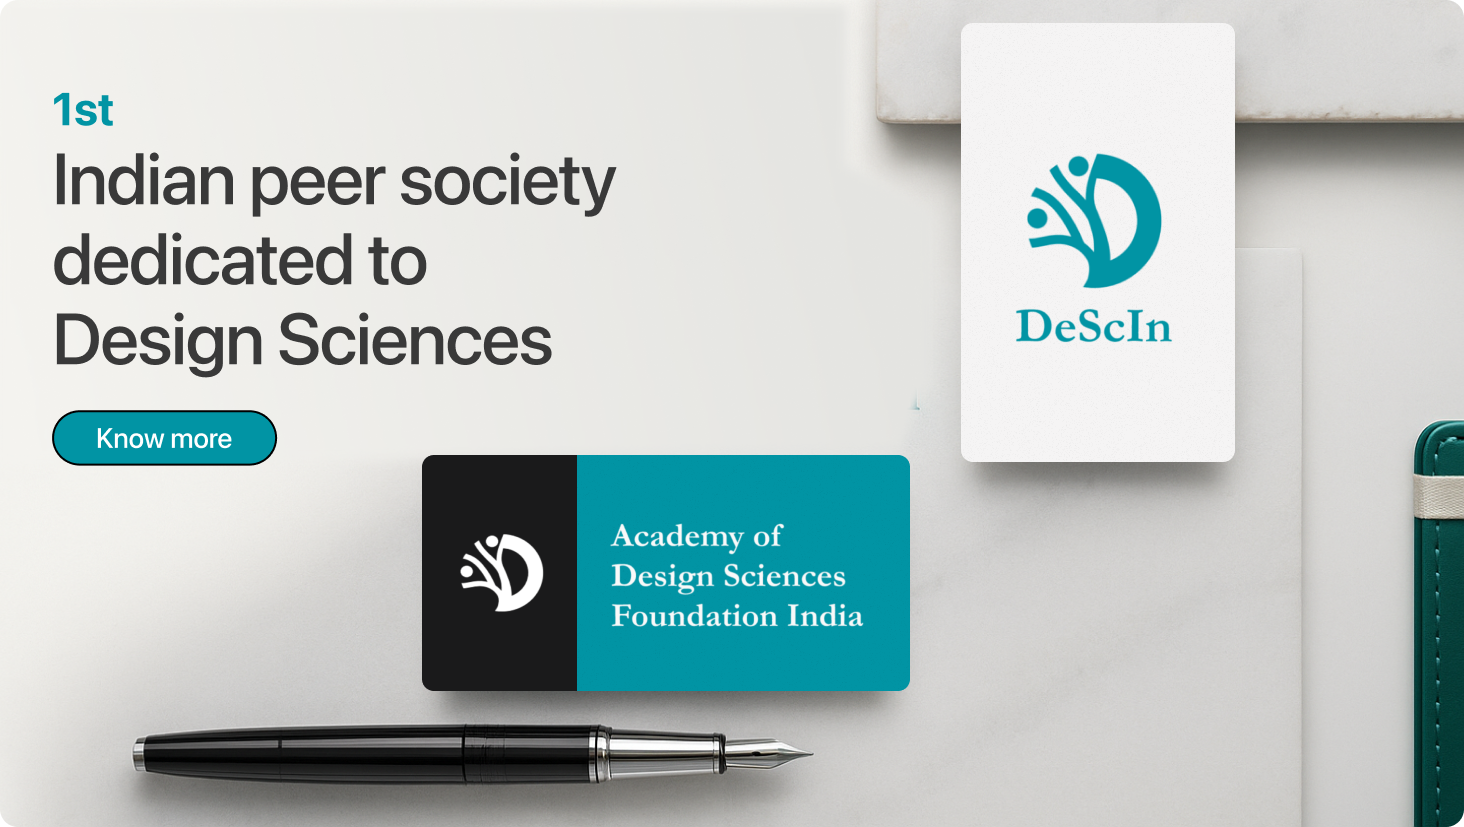
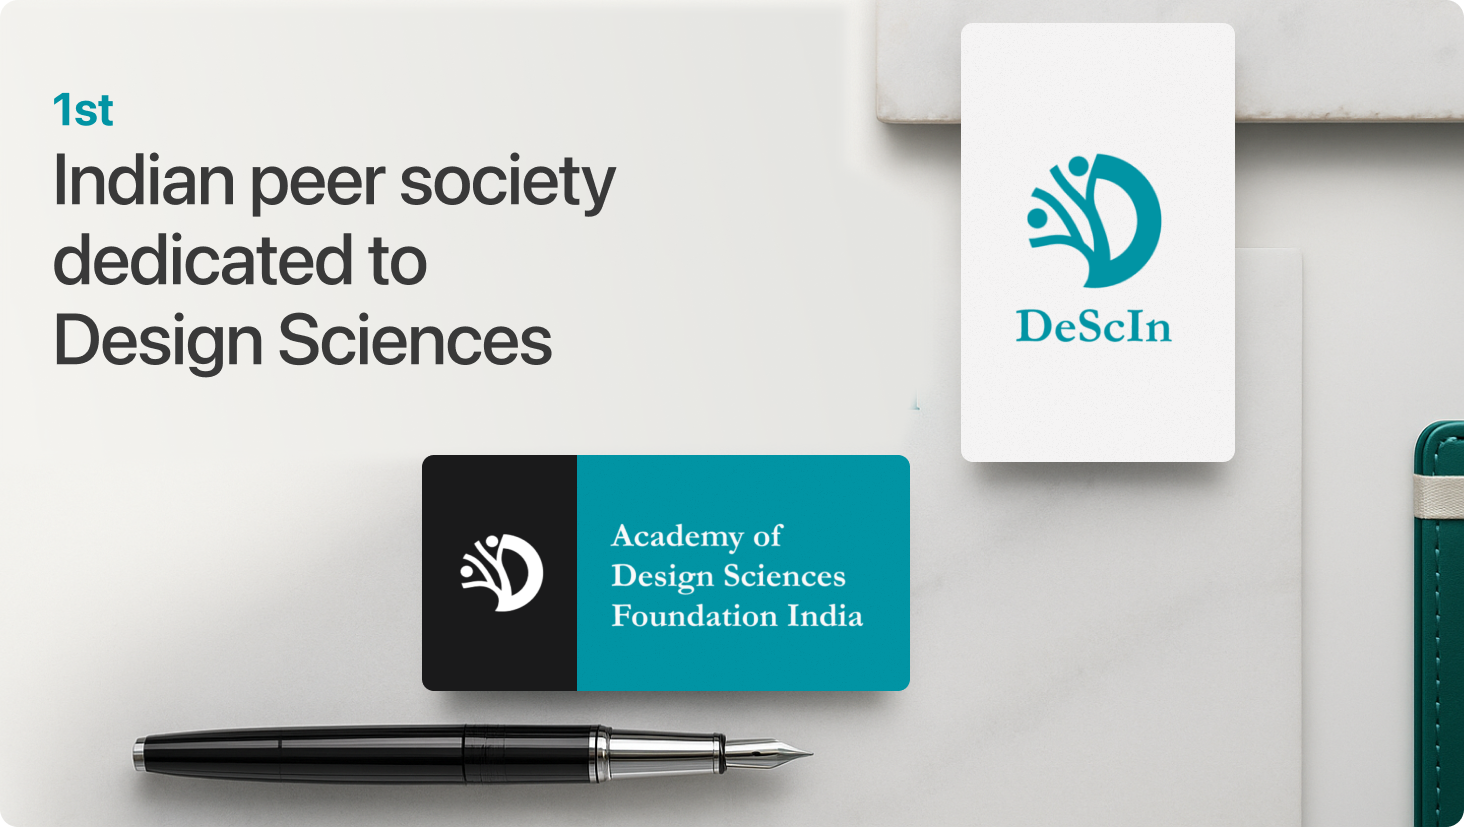
Fix image view

Changed region(s): [[0.0307, 0.4837, 0.2152, 0.5744]]

diff --git a/src/app/page.module.css b/src/app/page.module.css
@@ -76,6 +76,7 @@
   line-height: 1.2;
   border-radius: 999px;
   transition: background-color 0.2s ease;
+  white-space: nowrap;
 }
 
 .loginButton {
@@ -100,7 +101,6 @@
 .heroCard {
   position: relative;
   aspect-ratio: 1365 / 768;
-  min-height: auto;
   border-radius: 18px;
   overflow: hidden;
   background: #e9e7e8;
@@ -124,6 +124,15 @@
   width: 100%;
   height: 100%;
   object-fit: cover;
+  object-position: center center;
+}
+
+.slideImageKnowMore {
+  object-position: center center;
+}
+
+.slideImageRegister {
+  object-position: center center;
 }
 
 .slideCta {
@@ -135,6 +144,7 @@
   font-family: var(--font-display), sans-serif;
   font-weight: 700;
   z-index: 4;
+  white-space: nowrap;
 }
 
 .slideCtaKnowMore {
@@ -149,8 +159,8 @@
 }
 
 .slideCtaRegister {
-  left: 3.4%;
-  top: 49.4%;
+  left: 3.2%;
+  top: 49.6%;
   min-width: 245px;
   min-height: 56px;
   border: 2px solid #d2d2d2;
@@ -527,6 +537,7 @@
   display: flex;
   overflow-x: auto;
   scroll-behavior: smooth;
+  scroll-snap-type: x proximity;
   scrollbar-width: none;
   gap: 1rem;
   padding: 1rem 0 1.3rem;
@@ -571,6 +582,7 @@
   overflow: hidden;
   background: var(--color-primary);
   cursor: pointer;
+  scroll-snap-align: start;
 }
 
 .memberModalOverlay {
@@ -647,6 +659,7 @@
   font-family: var(--font-body), sans-serif;
   font-size: clamp(1.12rem, 1.7vw, 2.2rem);
   line-height: 1.55;
+  word-break: break-word;
 }
 
 .memberPhoto {
@@ -1063,6 +1076,24 @@
 }
 
 @media (max-width: 1220px) {
+  .headerInner {
+    align-items: flex-start;
+    flex-direction: column;
+    gap: 0.7rem;
+  }
+
+  .siteNav {
+    width: 100%;
+    flex-wrap: nowrap;
+    justify-content: flex-start;
+    overflow-x: auto;
+    padding-bottom: 0.2rem;
+  }
+
+  .band {
+    padding: clamp(2.2rem, 5.4vw, 4.5rem) 0;
+  }
+
   .chapterGrid,
   .benefitGrid,
   .principleGrid,
@@ -1079,9 +1110,45 @@
   }
 }
 
+@media (max-width: 1220px) and (min-width: 981px) {
+  .slideArrowLeft,
+  .slideArrowRight {
+    width: 46px;
+    height: 46px;
+    font-size: 1.35rem;
+  }
+
+  .heroDot {
+    width: 13px;
+    height: 13px;
+  }
+
+  .heroDots {
+    gap: 0.55rem;
+    bottom: 0.9rem;
+  }
+}
+
 @media (max-width: 980px) {
   .container {
     width: min(1408px, calc(100% - 2.2rem));
+  }
+
+  .band {
+    padding: clamp(2rem, 5vw, 3.6rem) 0;
+  }
+
+  .sectionTitle {
+    line-height: 1;
+  }
+
+  .siteNav {
+    gap: 0.35rem;
+  }
+
+  .navLink {
+    font-size: 1rem;
+    padding: 0.45rem 0.78rem;
   }
 
   .heroBrandPanel {
@@ -1093,20 +1160,39 @@
     grid-template-columns: 120px minmax(0, 1fr);
   }
 
+  .heroCard {
+    aspect-ratio: 1365 / 768;
+  }
+
+  .heroSlide {
+    min-height: 100%;
+  }
+
+  .slideImageKnowMore {
+    object-position: center center;
+  }
+
+  .slideImageRegister {
+    object-position: center center;
+  }
+
+  .slideCta {
+    min-width: auto;
+    min-height: auto;
+    border-width: 1.6px;
+    padding: clamp(0.4rem, 0.95vw, 0.55rem) clamp(0.9rem, 2vw, 1.2rem);
+  }
+
   .slideCtaKnowMore {
-    left: 3.5%;
-    top: 55.2%;
-    min-width: 212px;
-    min-height: 52px;
-    font-size: 1.12rem;
+    left: 3.2%;
+    top: 74.2%;
+    font-size: clamp(0.88rem, 1.55vw, 0.98rem);
   }
 
   .slideCtaRegister {
-    left: 3.5%;
-    top: 72.1%;
-    min-width: 186px;
-    min-height: 46px;
-    font-size: 1rem;
+    left: 3.2%;
+    top: 74.2%;
+    font-size: clamp(0.84rem, 1.4vw, 0.94rem);
   }
 
   .heroBrandMark img {
@@ -1152,6 +1238,31 @@
   .memberCard {
     flex-basis: calc((100% - 1rem) / 1.8);
   }
+
+  .councilSliderWrap {
+    grid-template-columns: 1fr;
+    gap: 0.7rem;
+  }
+
+  .sliderArrow {
+    width: 40px;
+    height: 40px;
+  }
+
+  .councilSliderWrap > .sliderArrow:first-child {
+    order: 2;
+    justify-self: start;
+  }
+
+  .councilSliderWrap > .memberStrip {
+    order: 1;
+  }
+
+  .councilSliderWrap > .sliderArrow:last-child {
+    order: 3;
+    justify-self: end;
+    margin-top: -2.6rem;
+  }
 }
 
 @media (max-width: 680px) {
@@ -1159,25 +1270,43 @@
     width: min(1408px, calc(100% - 1.4rem));
   }
 
-  .siteHeader {
-    position: static;
+  .band {
+    padding: 1.7rem 0;
   }
 
   .headerInner {
-    align-items: flex-start;
-    flex-direction: column;
+    gap: 0.6rem;
   }
 
   .siteNav {
-    width: 100%;
-    overflow-x: auto;
-    flex-wrap: nowrap;
+    gap: 0.3rem;
     padding-bottom: 0.2rem;
   }
 
+  .navLink {
+    font-size: 0.92rem;
+    padding: 0.42rem 0.7rem;
+  }
+
+  .loginButton {
+    font-size: 0.94rem;
+    padding: 0.52rem 1rem;
+  }
+
   .heroCard {
-    min-height: 620px;
-    aspect-ratio: auto;
+    aspect-ratio: 1365 / 768;
+  }
+
+  .heroSlide {
+    min-height: 100%;
+  }
+
+  .slideImageKnowMore {
+    object-position: center center;
+  }
+
+  .slideImageRegister {
+    object-position: center center;
   }
 
   .heroHeading {
@@ -1209,6 +1338,22 @@
     transform: none;
   }
 
+  .slideCtaKnowMore {
+    left: 3.2%;
+    top: 72.6%;
+    font-size: clamp(0.78rem, 2.2vw, 0.88rem);
+    padding: clamp(0.34rem, 1vw, 0.42rem) clamp(0.78rem, 2.2vw, 0.92rem);
+    border-width: 1.4px;
+  }
+
+  .slideCtaRegister {
+    left: 3.2%;
+    top: 72.6%;
+    font-size: clamp(0.76rem, 2.05vw, 0.86rem);
+    padding: clamp(0.34rem, 1vw, 0.42rem) clamp(0.78rem, 2.2vw, 0.92rem);
+    border-width: 1.4px;
+  }
+
   .slideArrowLeft {
     left: 0.6rem;
   }
@@ -1225,7 +1370,17 @@
   }
 
   .memberCard {
-    flex-basis: calc(100% - 4rem);
+    flex-basis: calc(100% - 2rem);
+  }
+
+  .sliderArrow {
+    width: 36px;
+    height: 36px;
+    font-size: 1rem;
+  }
+
+  .councilSliderWrap > .sliderArrow:last-child {
+    margin-top: -2.2rem;
   }
 
   .membershipRow {
@@ -1235,5 +1390,22 @@
 
   .membershipIcon {
     min-height: 86px;
+  }
+}
+
+@media (max-width: 480px) {
+  .slideCta {
+    border-width: 1.2px;
+    padding: clamp(0.28rem, 0.9vw, 0.35rem) clamp(0.64rem, 1.7vw, 0.78rem);
+  }
+
+  .slideCtaKnowMore {
+    top: 71.8%;
+    font-size: clamp(0.68rem, 3.1vw, 0.76rem);
+  }
+
+  .slideCtaRegister {
+    top: 71.8%;
+    font-size: clamp(0.66rem, 2.9vw, 0.74rem);
   }
 }

diff --git a/src/app/page.tsx b/src/app/page.tsx
@@ -93,6 +93,7 @@ const heroSlides = [
   {
     image: "/slides/hero-slide-1.png",
     alt: "DeScIn hero intro",
+    imageClassName: "slideImageKnowMore",
     ctaLabel: "Know more",
     ctaHref: "#about",
     ctaClassName: "slideCtaKnowMore",
@@ -100,6 +101,7 @@ const heroSlides = [
   {
     image: "/slides/hero-slide-2.png",
     alt: "Indian Winter School on Design Research",
+    imageClassName: "slideImageRegister",
     ctaLabel: "Register Here",
     ctaHref: "#events",
     ctaClassName: "slideCtaRegister",
@@ -420,7 +422,11 @@ export default function Home() {
               >
                 {heroSlides.map((slide) => (
                   <div className={styles.heroSlide} key={slide.image}>
-                    <img src={slide.image} alt={slide.alt} className={styles.heroSlideImage} />
+                    <img
+                      src={slide.image}
+                      alt={slide.alt}
+                      className={`${styles.heroSlideImage} ${styles[slide.imageClassName as keyof typeof styles]}`}
+                    />
                     <a
                       href={slide.ctaHref}
                       className={`${styles.slideCta} ${styles[slide.ctaClassName as keyof typeof styles]}`}
